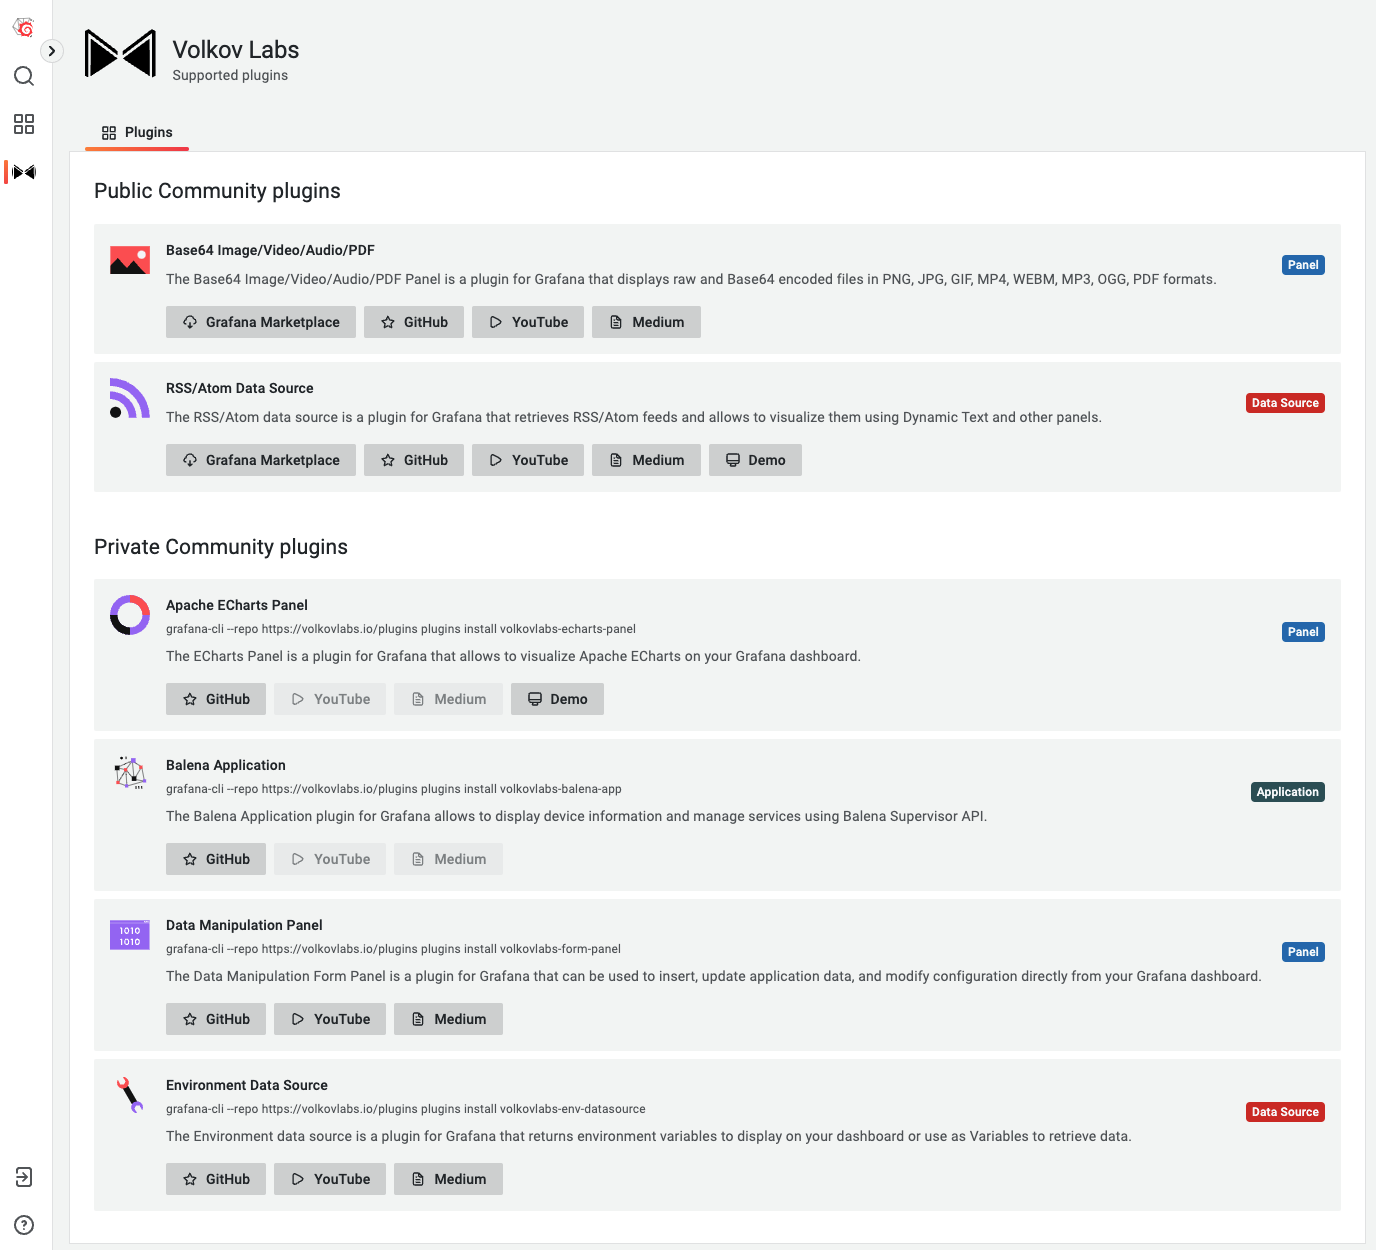
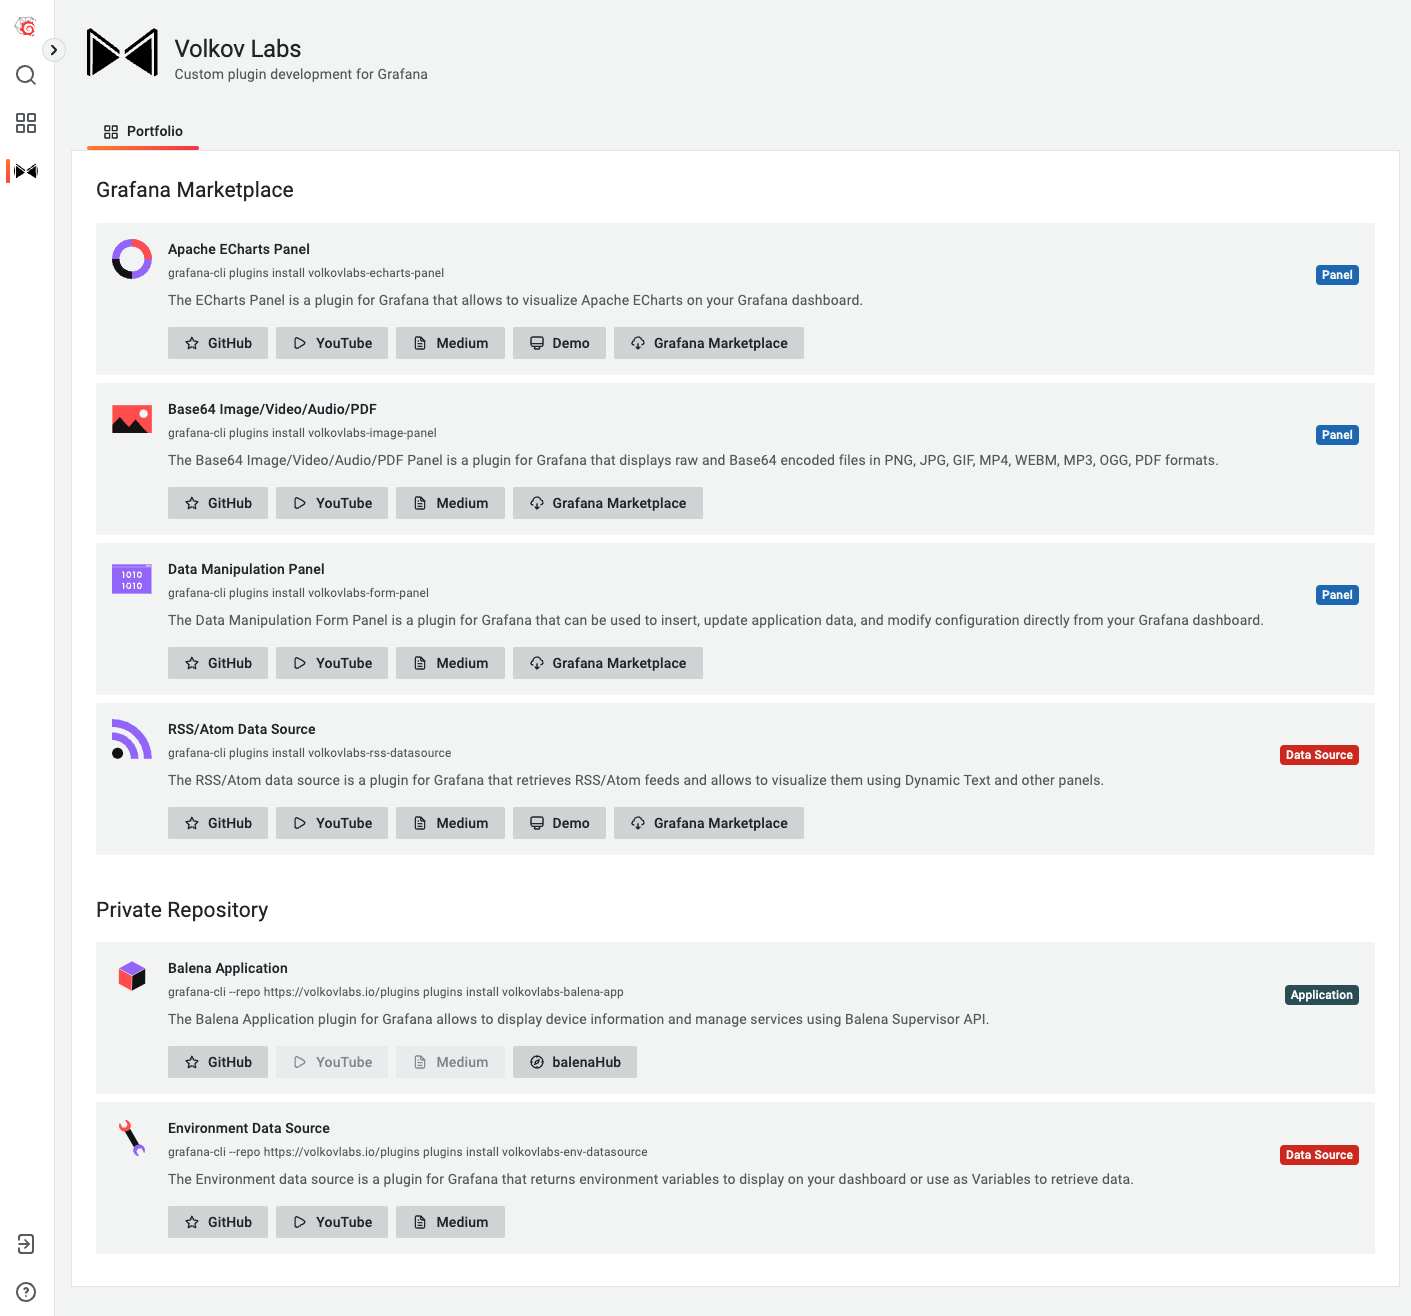
Update plugins included in Grafana Marketplace (#18)
* Update plugins included in Grafana Marketplace

* Update CHANGELOG.md

* Update screenshot

diff --git a/src/components/Plugins/Plugins.tsx b/src/components/Plugins/Plugins.tsx
@@ -14,6 +14,63 @@ export class Plugins extends PureComponent {
       <div>
         <FieldSet label="Grafana Marketplace">
           <Card>
+            <Card.Heading>Apache ECharts Panel</Card.Heading>
+            <Card.Description>
+              The ECharts Panel is a plugin for Grafana that allows to visualize Apache ECharts on your Grafana
+              dashboard.
+            </Card.Description>
+            <Card.Figure>
+              <ECharts size={40} />
+            </Card.Figure>
+            <Card.Meta>grafana-cli plugins install volkovlabs-echarts-panel</Card.Meta>
+            <Card.Tags>
+              <TagList tags={['Panel']} />
+            </Card.Tags>
+            <Card.Actions>
+              <LinkButton
+                variant="secondary"
+                icon="star"
+                target="_blank"
+                href="https://github.com/volkovlabs/volkovlabs-echarts-panel"
+              >
+                GitHub
+              </LinkButton>
+              <LinkButton
+                variant="secondary"
+                icon="play"
+                target="_blank"
+                href="https://www.youtube.com/watch?v=DxqCrBEmrQw"
+              >
+                YouTube
+              </LinkButton>
+              <LinkButton
+                variant="secondary"
+                icon="file-alt"
+                target="_blank"
+                href="https://volkovlabs.com/the-missing-plugin-to-create-business-and-industrial-charts-in-grafana-1d8f7304229f"
+              >
+                Medium
+              </LinkButton>
+              <LinkButton
+                variant="secondary"
+                icon="monitor"
+                target="_blank"
+                href="https://demo.volkovlabs.io/d/O4tc_E6G5/apache-echarts?orgId=1"
+              >
+                Demo
+              </LinkButton>
+              <LinkButton
+                variant="secondary"
+                icon="cloud-download"
+                target="_blank"
+                href="https://grafana.com/grafana/plugins/volkovlabs-echarts-panel/"
+              >
+                Grafana Marketplace
+              </LinkButton>
+            </Card.Actions>
+          </Card>
+
+          <Card>
             <Card.Heading>Base64 Image/Video/Audio/PDF</Card.Heading>
             <Card.Description>
               The Base64 Image/Video/Audio/PDF Panel is a plugin for Grafana that displays raw and Base64 encoded files
@@ -22,6 +79,7 @@ export class Plugins extends PureComponent {
             <Card.Figure>
               <Base64Image size={40} />
             </Card.Figure>
+            <Card.Meta>grafana-cli plugins install volkovlabs-image-panel</Card.Meta>
             <Card.Tags>
               <TagList tags={['Panel']} />
             </Card.Tags>
@@ -62,6 +120,55 @@ export class Plugins extends PureComponent {
           </Card>
 
           <Card>
+            <Card.Heading>Data Manipulation Panel</Card.Heading>
+            <Card.Description>
+              The Data Manipulation Form Panel is a plugin for Grafana that can be used to insert, update application
+              data, and modify configuration directly from your Grafana dashboard.
+            </Card.Description>
+            <Card.Figure>
+              <DataManipulation size={40} />
+            </Card.Figure>
+            <Card.Meta>grafana-cli plugins install volkovlabs-form-panel</Card.Meta>
+            <Card.Tags>
+              <TagList tags={['Panel']} />
+            </Card.Tags>
+            <Card.Actions>
+              <LinkButton
+                variant="secondary"
+                icon="star"
+                target="_blank"
+                href="https://github.com/volkovlabs/volkovlabs-form-panel"
+              >
+                GitHub
+              </LinkButton>
+              <LinkButton
+                variant="secondary"
+                icon="play"
+                target="_blank"
+                href="https://www.youtube.com/watch?v=DXALVG8GijM"
+              >
+                YouTube
+              </LinkButton>
+              <LinkButton
+                variant="secondary"
+                icon="file-alt"
+                target="_blank"
+                href="https://volkovlabs.com/data-manipulation-panel-plugin-for-grafana-97f9af2c67e0"
+              >
+                Medium
+              </LinkButton>
+              <LinkButton
+                variant="secondary"
+                icon="cloud-download"
+                target="_blank"
+                href="https://grafana.com/grafana/plugins/volkovlabs-form-panel/"
+              >
+                Grafana Marketplace
+              </LinkButton>
+            </Card.Actions>
+          </Card>
+
+          <Card>
             <Card.Heading>RSS/Atom Data Source</Card.Heading>
             <Card.Description>
               The RSS/Atom data source is a plugin for Grafana that retrieves RSS/Atom feeds and allows to visualize
@@ -70,6 +177,7 @@ export class Plugins extends PureComponent {
             <Card.Figure>
               <RSSAtom size={40} />
             </Card.Figure>
+            <Card.Meta>grafana-cli plugins install volkovlabs-rss-datasource</Card.Meta>
             <Card.Tags>
               <TagList tags={['Data Source']} />
             </Card.Tags>
@@ -120,57 +228,6 @@ export class Plugins extends PureComponent {
 
         <FieldSet label="Private Repository">
           <Card>
-            <Card.Heading>Apache ECharts Panel</Card.Heading>
-            <Card.Description>
-              The ECharts Panel is a plugin for Grafana that allows to visualize Apache ECharts on your Grafana
-              dashboard.
-            </Card.Description>
-            <Card.Figure>
-              <ECharts size={40} />
-            </Card.Figure>
-            <Card.Meta>
-              grafana-cli --repo https://volkovlabs.io/plugins plugins install volkovlabs-echarts-panel
-            </Card.Meta>
-            <Card.Tags>
-              <TagList tags={['Panel']} />
-            </Card.Tags>
-            <Card.Actions>
-              <LinkButton
-                variant="secondary"
-                icon="star"
-                target="_blank"
-                href="https://github.com/volkovlabs/volkovlabs-echarts-panel"
-              >
-                GitHub
-              </LinkButton>
-              <LinkButton
-                variant="secondary"
-                icon="play"
-                target="_blank"
-                href="https://www.youtube.com/watch?v=DxqCrBEmrQw"
-              >
-                YouTube
-              </LinkButton>
-              <LinkButton
-                variant="secondary"
-                icon="file-alt"
-                target="_blank"
-                href="https://volkovlabs.com/the-missing-plugin-to-create-business-and-industrial-charts-in-grafana-1d8f7304229f"
-              >
-                Medium
-              </LinkButton>
-              <LinkButton
-                variant="secondary"
-                icon="monitor"
-                target="_blank"
-                href="https://demo.volkovlabs.io/d/O4tc_E6G5/apache-echarts?orgId=1"
-              >
-                Demo
-              </LinkButton>
-            </Card.Actions>
-          </Card>
-
-          <Card>
             <Card.Heading>Balena Application</Card.Heading>
             <Card.Description>
               The Balena Application plugin for Grafana allows to display device information and manage services using
@@ -207,48 +264,6 @@ export class Plugins extends PureComponent {
                 href="https://hub.balena.io/organizations/volkovlabs/projects/balena-app"
               >
                 balenaHub
-              </LinkButton>
-            </Card.Actions>
-          </Card>
-          <Card>
-            <Card.Heading>Data Manipulation Panel</Card.Heading>
-            <Card.Description>
-              The Data Manipulation Form Panel is a plugin for Grafana that can be used to insert, update application
-              data, and modify configuration directly from your Grafana dashboard.
-            </Card.Description>
-            <Card.Figure>
-              <DataManipulation size={40} />
-            </Card.Figure>
-            <Card.Meta>
-              grafana-cli --repo https://volkovlabs.io/plugins plugins install volkovlabs-form-panel
-            </Card.Meta>
-            <Card.Tags>
-              <TagList tags={['Panel']} />
-            </Card.Tags>
-            <Card.Actions>
-              <LinkButton
-                variant="secondary"
-                icon="star"
-                target="_blank"
-                href="https://github.com/volkovlabs/volkovlabs-form-panel"
-              >
-                GitHub
-              </LinkButton>
-              <LinkButton
-                variant="secondary"
-                icon="play"
-                target="_blank"
-                href="https://www.youtube.com/watch?v=DXALVG8GijM"
-              >
-                YouTube
-              </LinkButton>
-              <LinkButton
-                variant="secondary"
-                icon="file-alt"
-                target="_blank"
-                href="https://volkovlabs.com/data-manipulation-panel-plugin-for-grafana-97f9af2c67e0"
-              >
-                Medium
               </LinkButton>
             </Card.Actions>
           </Card>

diff --git a/README.md b/README.md
@@ -2,7 +2,7 @@
 
 ![Application](https://raw.githubusercontent.com/volkovlabs/volkovlabs-app/main/img/app.png)
 
-[![Grafana 9](https://img.shields.io/badge/Grafana-9-orange)](https://www.grafana.com)
+[![Grafana 9](https://img.shields.io/badge/Grafana-9.0.6-orange)](https://www.grafana.com)
 [![Language grade: JavaScript](https://img.shields.io/lgtm/grade/javascript/g/VolkovLabs/volkovlabs-app.svg?logo=lgtm&logoWidth=18)](https://lgtm.com/projects/g/VolkovLabs/volkovlabs-app/context:javascript)
 ![CI](https://github.com/volkovlabs/volkovlabs-app/workflows/CI/badge.svg)
 [![codecov](https://codecov.io/gh/VolkovLabs/volkovlabs-app/branch/main/graph/badge.svg?token=2W9VR0PG5N)](https://codecov.io/gh/VolkovLabs/volkovlabs-app)

diff --git a/CHANGELOG.md b/CHANGELOG.md
@@ -1,5 +1,11 @@
 # Change Log
 
+## 1.3.0 (IN PROGRESS)
+
+### Features / Enhancements
+
+- Update plugins included in Grafana Marketplace (#18)
+
 ## 1.2.0 (2022-08-05)
 
 ### Features / Enhancements
